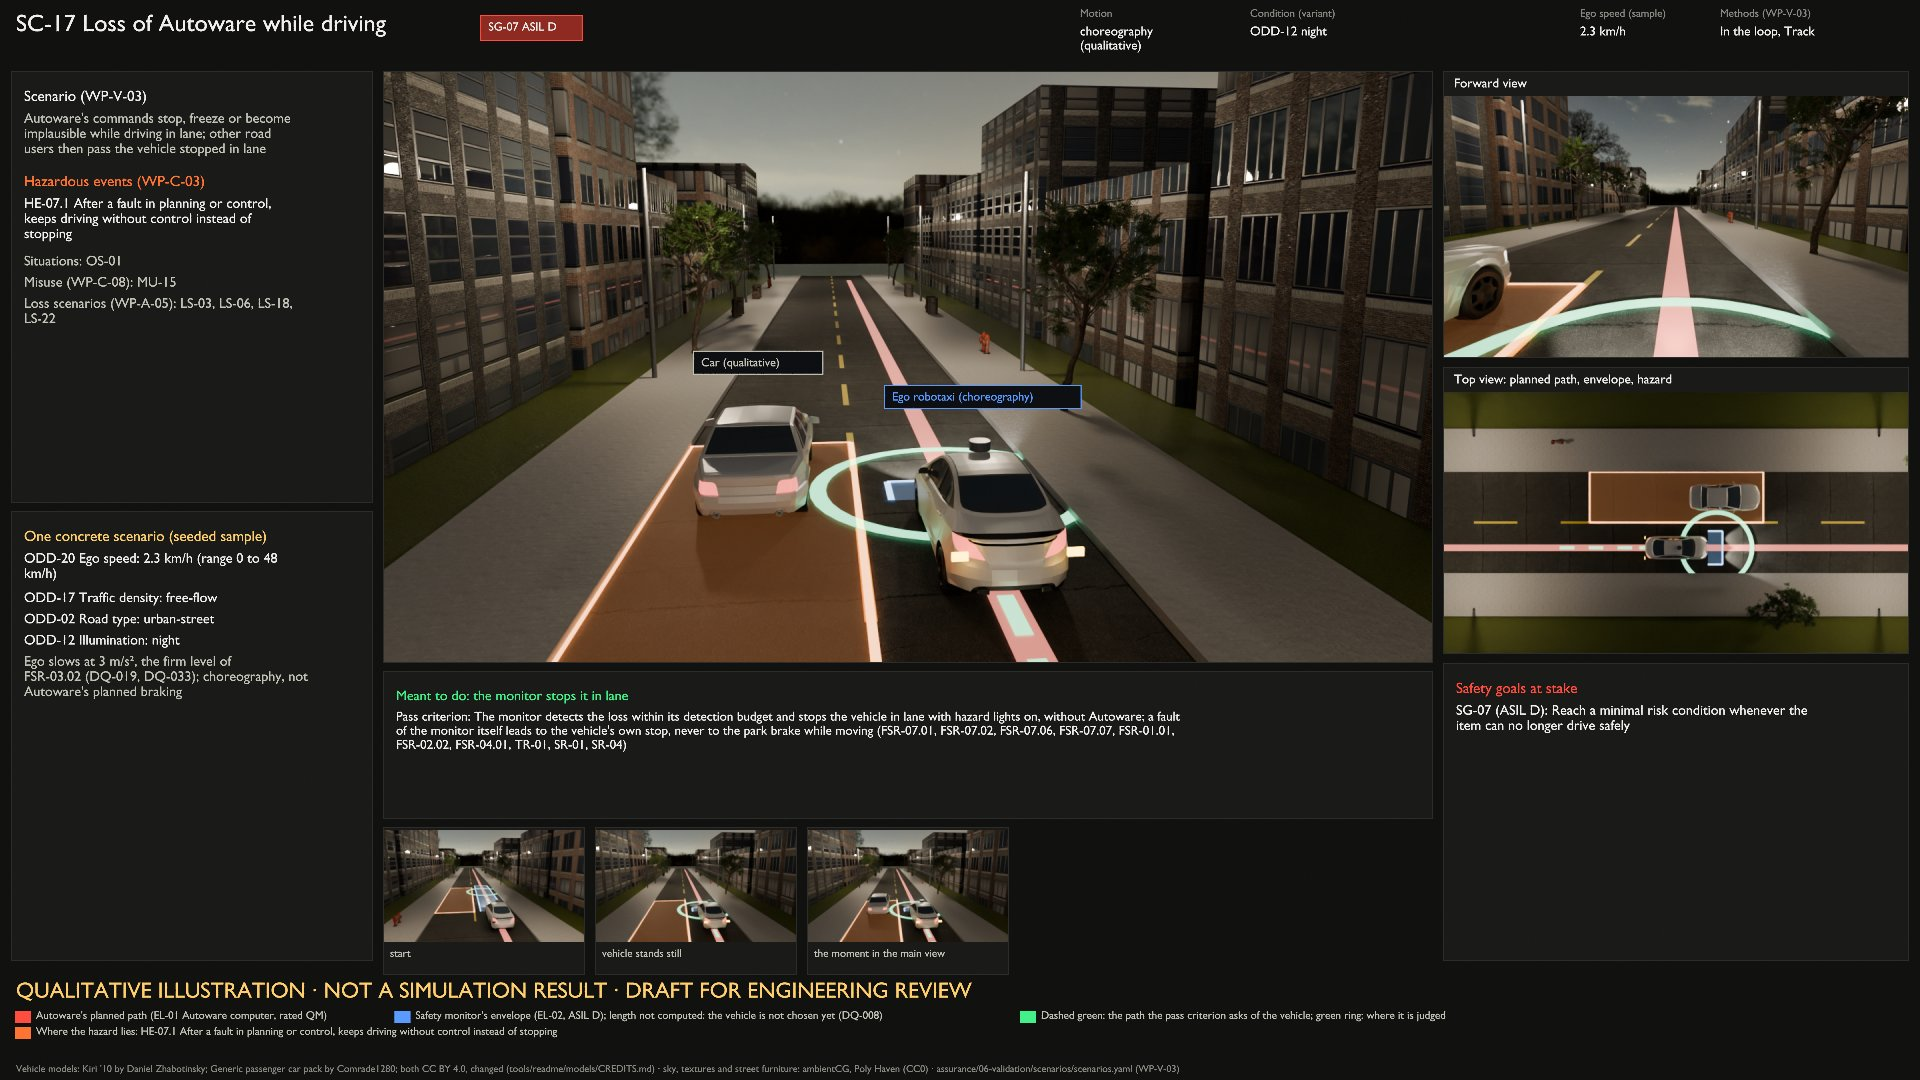
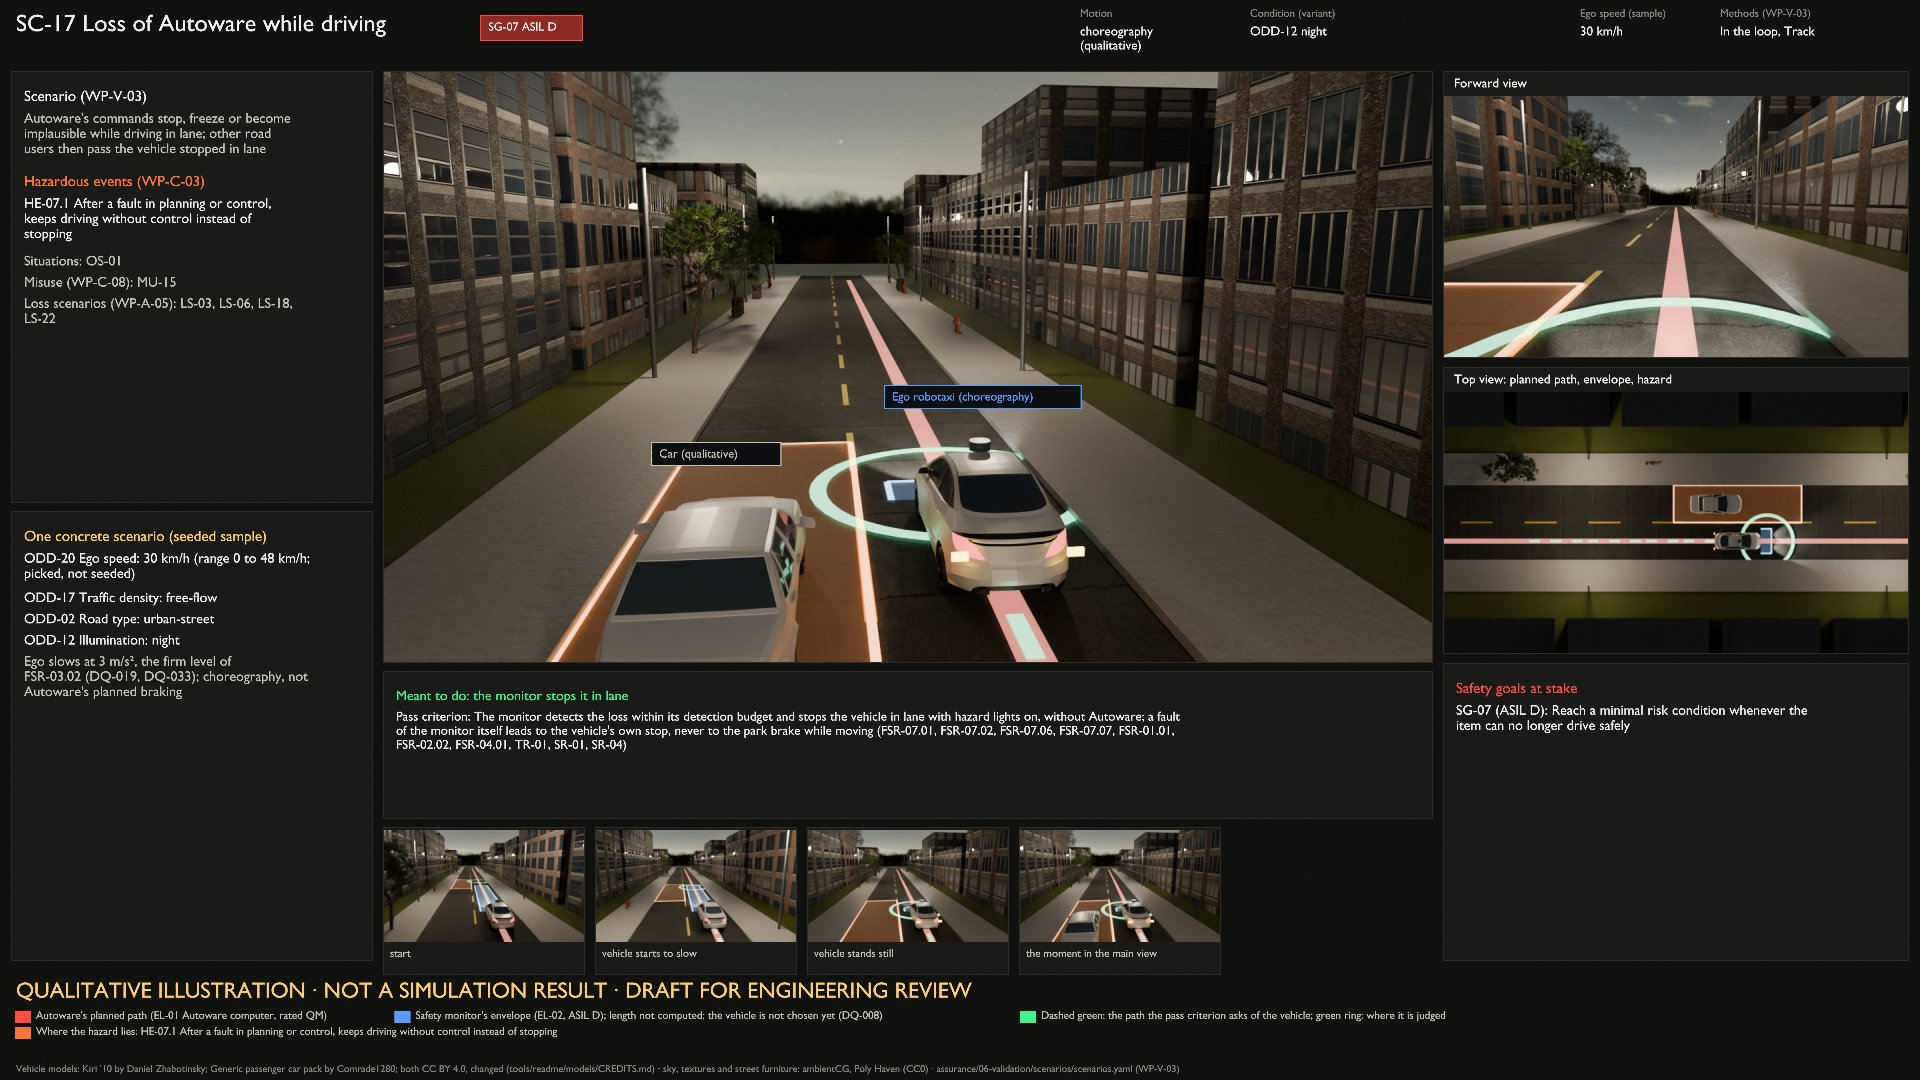
feat(sim): realistic ego speeds for SC-08 and SC-17, picked inside the range
The seeded draw gave 1.6 and 2.3 km/h, a crawl that hid what the scenes are
about. A layout may now pick a value inside a two-sided range; the dashboard
labels it "picked, not seeded". SC-08 drives at 20 km/h and SC-17 at 30 km/h,
their road users re-timed; three dashboards re-rendered and verified. Audit
F-57 closed at the lead's request.

Claude-Session: https://claude.ai/code/session_01SovVP9jdr93ABMnhgF2WNy

diff --git a/tools/sim/layouts.py b/tools/sim/layouts.py
@@ -27,9 +27,10 @@ A layout entry:
     hazard      where the hazard lies on the ground: a rectangle (x0, y0, x1, y1)
     still       the moment of the clip that the still shows, as a fraction of it
     camera      position, point looked at, lens in mm
-    pick        concrete values chosen for categorical parameters instead of the seeded draw, so
-                that a still shows the condition the scenario is about; scene.py refuses a value
-                that is not one of the scenario's own
+    pick        concrete values chosen instead of the seeded draw, so that a still shows the
+                condition the scenario is about: one of a categorical parameter's own values, or a
+                number inside a two-sided range (the ego speed where the seeded one gave a crawl);
+                scene.py refuses anything else
     features    scene parts that depend on a sampled value: {ODD-nn: {value: [part, ...]}}
     odd_limit   for a scenario that crosses the ODD boundary: where along y the drawing changes
                 from inside the ODD to beyond its limit
@@ -316,13 +317,13 @@ LAYOUTS: dict[str, dict] = {
             "stop_line": 35.5,
             "cross": {"y": 40.0, "width": 7.0, "sides": ["right"]},
         },
-        "ego": {"path": [(1.75, 0.0), (1.75, 32.8)], "stops": True},
+        "ego": {"path": [(1.75, 0.0), (1.75, 32.8)], "stops": True, "hold_s": 5.0},
         "plan": [(1.75, 0.0), (1.75, 34.0), (2.3, 36.3), (3.7, 37.8), (6.0, 38.25), (40.0, 38.25)],
         "actors": [
             {
                 "role": "key",
                 "kind": {"from": "ODD-16"},
-                "path": [(4.25, 8.0), (4.25, 60.0)],
+                "path": [(4.25, 20.0), (4.25, 50.0)],
                 "move": (0.0, 1.0),
             },
             {
@@ -333,9 +334,9 @@ LAYOUTS: dict[str, dict] = {
             },
         ],
         "hazard": (3.5, 30.0, 5.0, 40.0),
-        "still": 0.4,
+        "still": 0.5,
         "camera": {"pos": (-1.0, -8.0, 6.0), "look": (3.0, 34.0, 0.0), "lens": 26},
-        "pick": {"ODD-04": "stop-controlled", "ODD-16": "bicycle"},
+        "pick": {"ODD-04": "stop-controlled", "ODD-16": "bicycle", "ODD-20": 20.0},
         "features": {"ODD-04": {"signalised": ["signals"], "stop-controlled": ["stop_sign"]}},
     },
     "SC-09": {
@@ -535,14 +536,21 @@ LAYOUTS: dict[str, dict] = {
             {
                 "role": "other",
                 "kind": "car",
-                "path": [(1.75, 24.0), (-1.75, 31.0), (-1.75, 50.0), (1.75, 58.0), (1.75, 70.0)],
-                "move": (0.65, 1.0),
+                "path": [
+                    (1.75, -15.0),
+                    (1.75, 24.0),
+                    (-1.75, 31.0),
+                    (-1.75, 50.0),
+                    (1.75, 58.0),
+                    (1.75, 70.0),
+                ],
+                "move": (0.0, 1.0),
             },
         ],
         "hazard": (-3.5, 34.0, 0.0, 46.0),
-        "still": 0.8,
+        "still": 0.62,
         "camera": {"pos": (-3.0, -8.0, 5.5), "look": (0.5, 38.0, 0.0), "lens": 26},
-        "pick": {"ODD-17": "free-flow", "ODD-12": "day"},
+        "pick": {"ODD-17": "free-flow", "ODD-12": "day", "ODD-20": 30.0},
         "variants": [{"ODD-12": "night"}],
     },
     "SC-18": {

diff --git a/tools/sim/scene.py b/tools/sim/scene.py
@@ -97,7 +97,8 @@ def human(value: str) -> str:
 def sample(s: dict, m: dict, lay: dict, odd: dict) -> list[dict]:
     """One concrete value per parameter of the logical scenario, in its order.
 
-    Two-sided numeric range: a seeded draw inside it, to 0.1. One-sided range: the stated bound, the
+    Two-sided numeric range: a seeded draw inside it, to 0.1, or the layout's pick inside it (its
+    label says so). One-sided range: the stated bound, the
     hardest case. A range that crosses the ODD limit: no value; the scene shows inside and beyond.
     Categorical: the layout's pick, or a seeded draw among the scenario's values. Behaviour bound: no
     value, since the requirement has not fixed one."""
@@ -140,8 +141,16 @@ def sample(s: dict, m: dict, lay: dict, odd: dict) -> list[dict]:
             )
             continue
         lo, hi, unit = p.get("min"), p.get("max"), a["unit"]
+        pick = (lay.get("pick") or {}).get(attr)
+        if pick is not None and (p.get("crosses") or lo is None or hi is None):
+            raise SceneError(f"{s['id']}: layout picks {attr}, which has no two-sided range")
         if p.get("crosses"):
             v, label = None, f"{title}: swept from inside the ODD to beyond its limit"
+        elif pick is not None:
+            if not lo <= pick <= hi:
+                raise SceneError(f"{s['id']}: layout picks {attr} {pick}, outside {rng_text}")
+            v = float(pick)
+            label = f"{title}: {v:g} {unit} (range {rng_text}; picked, not seeded)"
         elif lo is not None and hi is not None:
             v = round(lo + (hi - lo) * r.random(), 1)
             label = f"{title}: {v:g} {unit} (range {rng_text})"
@@ -157,6 +166,7 @@ def sample(s: dict, m: dict, lay: dict, odd: dict) -> list[dict]:
                 "crosses": bool(p.get("crosses")),
                 "label": label,
             }
+            | ({"chosen": "layout"} if pick is not None else {})
         )
     cap(s, m, out)
     return out
@@ -356,10 +366,16 @@ def scene(s: dict, m: dict, k: dict, f: fx.Facts, variant: dict | None = None) -
     if why:
         raise SceneError(f"{sid}: not drawn, because {why}; remove its layout")
     errs = check_layout(sid, lay)
-    categorical = {p["odd"] for p in s.get("parameters") or [] if "values" in p}
+    pickable = {
+        p["odd"]
+        for p in s.get("parameters") or []
+        if "values" in p or ("min" in p and "max" in p and not p.get("crosses"))
+    }
     for attr in {**(lay.get("pick") or {}), **(variant or {})}:
-        if attr not in categorical:
-            errs.append(f"{sid}: picks {attr}, which is not one of its categorical parameters")
+        if attr not in pickable:
+            errs.append(
+                f"{sid}: picks {attr}, which is not one of its parameters with values or a range"
+            )
     if errs:
         raise SceneError("; ".join(errs))
     if variant:

diff --git a/tools/sim/test_sim.py b/tools/sim/test_sim.py
@@ -96,6 +96,21 @@ class Descriptions(unittest.TestCase):
         with self.assertRaises(scene.SceneError):
             describe("SC-14", lay)
 
+    def test_a_picked_speed_lies_inside_the_range_and_says_so(self):
+        d = ALL["SC-17"]
+        speed = next(p for p in d["sample"]["parameters"] if p["parameter"] == "ODD-20")
+        self.assertEqual(speed["chosen"], "layout")
+        self.assertIn("picked, not seeded", speed["label"])
+        for bad in (60.0, -1.0):  # outside 0 to 48 km/h
+            lay = copy.deepcopy(scene.LAYOUTS["SC-17"])
+            lay["pick"]["ODD-20"] = bad
+            with self.assertRaises(scene.SceneError):
+                describe("SC-17", lay)
+        lay = copy.deepcopy(scene.LAYOUTS["SC-14"])  # ODD-10 crosses the limit: no pick
+        lay["pick"]["ODD-10"] = 1.0
+        with self.assertRaises(scene.SceneError):
+            describe("SC-14", lay)
+
     def test_an_unknown_road_key_is_refused(self):
         lay = copy.deepcopy(scene.LAYOUTS["SC-01"])
         lay["road"]["tunnel"] = True

diff --git a/tools/sim/AUDIT.md b/tools/sim/AUDIT.md
@@ -157,7 +157,7 @@ the author's own new overlap test had already caught three drawn collisions (F-5
 | F-54 | Ego indicators (cold read) | An unlit indicator lens was amber, so in SC-22 the right side looked lit during a left lane change, the very mismatch the scenario is about | Major | **Fixed:** a dark lens that glows only while lit; the scenes with lights re-rendered |
 | F-55 | SC-04, SC-22 (cold read) | The road user each scenario is about (the car following, the car relying on the indicator) was behind the chase camera, so the main view never showed it | Minor | **Fixed:** a layout may set its own chase camera (`chase`); both now show it, checked by projecting the road users into the camera before rendering. SC-22's car follows closer |
 | F-56 | Tags (cold read) | Labels come from the participant class, so SC-11's person reads "Directing" (ODD-19's value) and SC-13's "E scooter" | Note | **Kept:** the words are the records' values; a typed "person directing traffic" would break the rule that no label is typed |
-| F-57 | SC-08, SC-17 | The seeded speeds are 1.6 and 2.3 km/h, so the vehicle crawls and the clips are long; "loss of Autoware while driving" at walking pace is a weak picture | Note | **Kept:** the draw is not tuned to look good (SALT is one for all); the README says so. The lead may ask for a pick |
+| F-57 | SC-08, SC-17 | The seeded speeds are 1.6 and 2.3 km/h, so the vehicle crawls and the clips are long; "loss of Autoware while driving" at walking pace is a weak picture | Note | **Fixed at the lead's request:** a layout may pick a value inside a two-sided range, labelled "picked, not seeded" on the dashboard; SC-08 drives at 20 km/h and SC-17 at 30 km/h, their road users re-timed; `test_a_picked_speed_lies_inside_the_range_and_says_so` |
 | F-58 | SC-10 | The red planned path runs into the barrier: it stands for Autoware following the map that still shows the lane open. The legend calls it Autoware's planned path, which is what it is in that scenario | Note | **Kept** |
 | F-59 | SC-05 | The ego starts to slow after the main view's moment, so the still shows it cruising up to the line while the red-runner crosses | Note | **Kept:** consistent with the pass criterion (it does not enter while the path is crossed) |
 | F-60 | SC-13 (cold read) | At the stop the e-scooter lying in the lane is mostly hidden by the ego in the chase view; it shows in the forward and top views | Note | **Kept:** the stop before the object is the point of the still; the forward view shows what the vehicle stops for |
@@ -171,7 +171,7 @@ Run on the commit of the fourth round, in the session's container (Python 3.13, 
 |---|---|
 | Everything `CLAUDE.md` lists: the decision register, the safety case records, headers, links, tables, `check_restricted.py`, every generator with `--check`, the assurance tests, the README figures | All pass |
 | `python3 tools/sim/scene.py --check` | 35 generated files current (34 descriptions and the gallery) |
-| `python3 -m unittest discover -s tools/sim -p 'test_*.py'` | 44 tests pass |
+| `python3 -m unittest discover -s tools/sim -p 'test_*.py'` | 45 tests pass |
 | `build_blend.py <scene> --out tools/sim/dashboards --verify` for all 34 scenes (32 samples, CC0 look after `fetch_assets.py --locked`) | All 34 match their descriptions; the gallery shows each dashboard as current |
 | `sim-render.yaml` on pull request #57, one job per scene (48 samples) | All 34 jobs built, verified and rendered, about 15 minutes in all |
 | black and isort at line length 100 | Clean |
@@ -180,4 +180,4 @@ Run on the commit of the fourth round, in the session's container (Python 3.13, 
 ## What this record does not do
 
 It does not verify the tool in the sense of WP-P-05, accept anything, or make any picture evidence. The open items
-(F-10 for the clip's overlay, F-16, F-17, F-27, F-28, F-50, F-57) wait on the lead's review of pull request #57.
+(F-10 for the clip's overlay, F-16, F-17, F-27, F-28, F-50) wait on the lead's review of pull request #57.

diff --git a/tools/sim/README.md b/tools/sim/README.md
@@ -112,7 +112,9 @@ to slow") describe the picture, not the item. `build_blend.py` reads only the de
 The sample is deterministic: each parameter has its own generator, seeded from `SALT`, the scenario id and the
 parameter, so changing or picking one parameter leaves the others as they were.
 
-- A two-sided numeric range: a draw inside it, to 0.1.
+- A two-sided numeric range: a draw inside it, to 0.1, unless the layout picks a value inside it. SC-08 and SC-17
+  pick the ego speed (20 and 30 km/h), because the draw gave 1.6 and 2.3 km/h, a crawl that hid what those scenes
+  are about; the dashboard labels a picked value "picked, not seeded".
 - A one-sided range (visibility of 200 m or more, a posted limit at or below 30 mph): the stated bound.
 - A range that crosses the ODD limit: no value; the scene shows inside and beyond.
 - A categorical parameter: a draw among the scenario's own values, unless the layout picks one (`pick`) so that the
@@ -136,7 +138,7 @@ parameter, so changing or picking one parameter leaves the others as they were.
   fits (a pull-over path whose bends are already longer than the stop keeps its start), it stands for `hold_s`, and
   the clip lasts as long as it takes. Which level Autoware itself would brake at is not modelled; the dashboard says
   so. Where the scenario samples no speed (SC-16, SC-19), the vehicle stands throughout and draws no planned path.
-  The sampled speed can be low (1.6 km/h in SC-08): the clip is then long, and the draw is kept, not tuned.
+  Where the draw gave a crawl, the layout picks the speed instead (see the concrete scenario, above).
 - **What is named but not drawn.** The gradient (ODD-06) and the localisation source (ODD-15 `gnss-lost`, SC-09)
   are on the dashboard from the sample but not in the scene: the road is flat. Nor are the HD map that SC-10 is
   about, a soiled sensor or a passenger's belt (SC-04), or a traffic density without a queue to show it.
